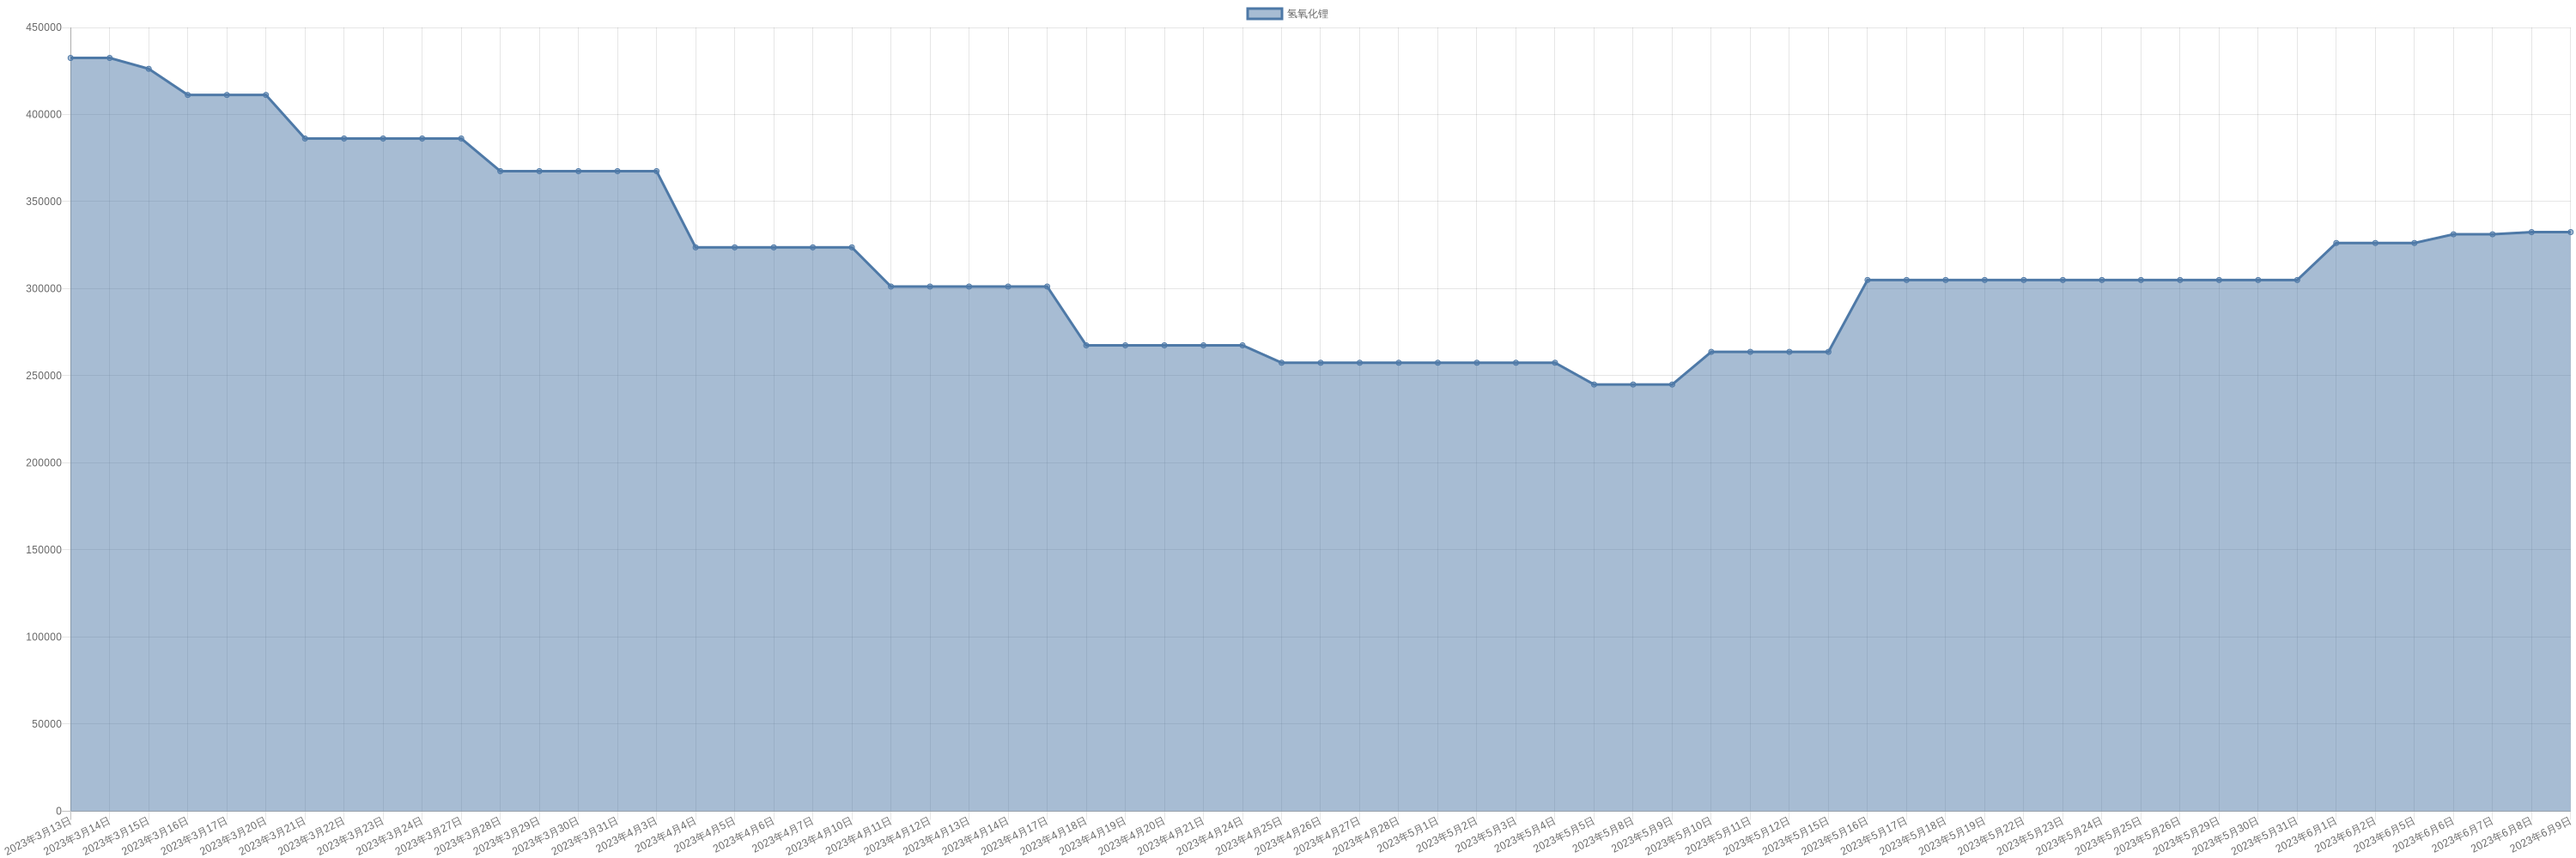
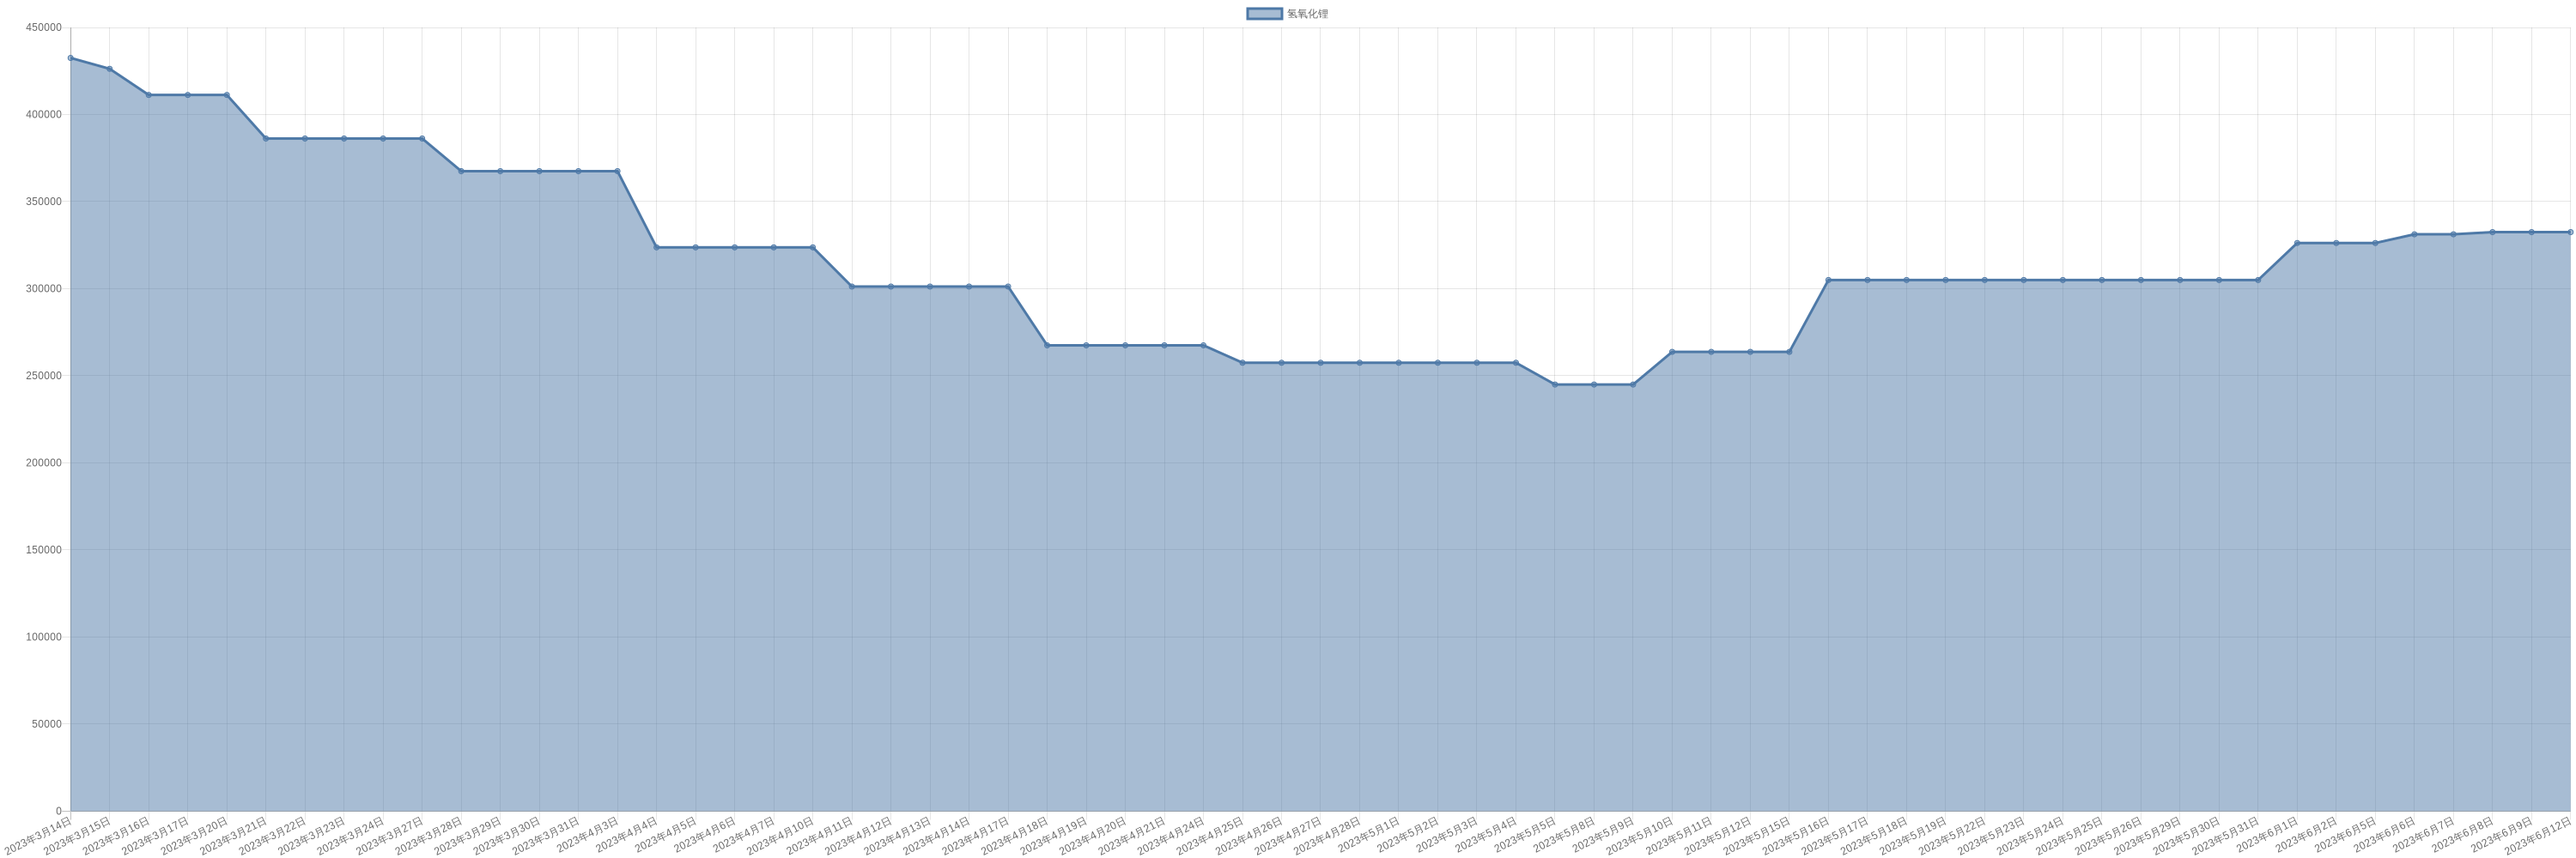
chore: sync commodity monitor

diff --git a/markdown/commodity/crudeOil.md b/markdown/commodity/crudeOil.md
@@ -2,6 +2,8 @@
 
 | 时间 | 价格 | 消息正文 |
 |:--:|:--:|:--:|
+|2023年6月12日WTI|70.17|6月12日WTI原油为70.17|
+|2023年6月12日Brent|74.79|6月12日Brent原油为74.79|
 |2023年6月9日Brent|75.96|6月9日Brent原油为75.96|
 |2023年6月9日WTI|71.29|6月9日WTI原油为71.29|
 |2023年6月8日WTI|72.53|6月8日WTI原油为72.53|

diff --git a/markdown/commodity/praseodymiumNeodymiumOxide.md b/markdown/commodity/praseodymiumNeodymiumOxide.md
@@ -8,6 +8,7 @@
 
 | 时间 | 价格 | 消息正文 |
 |:--:|:--:|:--:|
+|2023年6月12日|502500|6月12日镨钕氧化物为502500.00|
 |2023年6月9日|500000|6月9日镨钕氧化物为500000.00|
 |2023年6月8日|500000|6月8日镨钕氧化物为500000.00|
 |2023年6月7日|500000|6月7日镨钕氧化物为500000.00|

diff --git a/markdown/commodity/dyFeAlloy.md b/markdown/commodity/dyFeAlloy.md
@@ -8,6 +8,7 @@
 
 | 时间 | 价格 | 消息正文 |
 |:--:|:--:|:--:|
+|2023年6月12日|2090000|6月12日镝铁合金为2090000.00|
 |2023年6月9日|2070000|6月9日镝铁合金为2070000.00|
 |2023年6月8日|2060000|6月8日镝铁合金为2060000.00|
 |2023年6月7日|2060000|6月7日镝铁合金为2060000.00|

diff --git a/markdown/commodity/lithiumHydroxide.md b/markdown/commodity/lithiumHydroxide.md
@@ -8,6 +8,7 @@
 
 | 时间 | 价格 | 消息正文 |
 |:--:|:--:|:--:|
+|2023年6月12日|332500|6月12日氢氧化锂为332500.00|
 |2023年6月9日|332500|6月9日氢氧化锂为332500.00|
 |2023年6月8日|332500|6月8日氢氧化锂为332500.00|
 |2023年6月7日|331250|6月7日氢氧化锂为331250.00|

diff --git a/markdown/commodity/praseodymiumNeodymiumAlloy.md b/markdown/commodity/praseodymiumNeodymiumAlloy.md
@@ -8,6 +8,7 @@
 
 | 时间 | 价格 | 消息正文 |
 |:--:|:--:|:--:|
+|2023年6月12日|605000|6月12日镨钕合金为605000.00|
 |2023年6月9日|602500|6月9日镨钕合金为602500.00|
 |2023年6月8日|602500|6月8日镨钕合金为602500.00|
 |2023年6月7日|602500|6月7日镨钕合金为602500.00|

diff --git a/markdown/commodity/dysprosiumMetal.md b/markdown/commodity/dysprosiumMetal.md
@@ -8,6 +8,7 @@
 
 | 时间 | 价格 | 消息正文 |
 |:--:|:--:|:--:|
+|2023年6月12日|2710000|6月12日金属镝为2710000.00|
 |2023年6月9日|2680000|6月9日金属镝为2680000.00|
 |2023年6月8日|2680000|6月8日金属镝为2680000.00|
 |2023年6月7日|2680000|6月7日金属镝为2680000.00|

diff --git a/markdown/commodity/dysprosiumOxide.md b/markdown/commodity/dysprosiumOxide.md
@@ -8,6 +8,7 @@
 
 | 时间 | 价格 | 消息正文 |
 |:--:|:--:|:--:|
+|2023年6月12日|2130000|6月12日氧化镝为2130000.00|
 |2023年6月9日|2115000|6月9日氧化镝为2115000.00|
 |2023年6月8日|2105000|6月8日氧化镝为2105000.00|
 |2023年6月7日|2105000|6月7日氧化镝为2105000.00|

diff --git a/markdown/commodity/liquefiedNaturalGas.md b/markdown/commodity/liquefiedNaturalGas.md
@@ -8,6 +8,7 @@
 
 | 时间 | 价格 | 消息正文 |
 |:--:|:--:|:--:|
+|2023年6月12日|3750|6月12日液化天然气为3750.00|
 |2023年6月9日|3588|6月9日液化天然气为3588.00|
 |2023年6月8日|3560|6月8日液化天然气为3560.00|
 |2023年6月7日|3574|6月7日液化天然气为3574.00|

diff --git a/markdown/commodity/lithiumIronPhosphate.md b/markdown/commodity/lithiumIronPhosphate.md
@@ -8,6 +8,7 @@
 
 | 时间 | 价格 | 消息正文 |
 |:--:|:--:|:--:|
+|2023年6月12日|94000|6月12日磷酸铁锂为94000.00|
 |2023年6月9日|94000|6月9日磷酸铁锂为94000.00|
 |2023年6月8日|94000|6月8日磷酸铁锂为94000.00|
 |2023年6月7日|92000|6月7日磷酸铁锂为92000.00|

diff --git a/markdown/commodity/neodymium.md b/markdown/commodity/neodymium.md
@@ -8,6 +8,7 @@
 
 | 时间 | 价格 | 消息正文 |
 |:--:|:--:|:--:|
+|2023年6月12日|635000|6月12日金属钕为635000.00|
 |2023年6月9日|635000|6月9日金属钕为635000.00|
 |2023年6月8日|635000|6月8日金属钕为635000.00|
 |2023年6月7日|635000|6月7日金属钕为635000.00|

diff --git a/markdown/commodity/neodymiumOxide.md b/markdown/commodity/neodymiumOxide.md
@@ -8,6 +8,7 @@
 
 | 时间 | 价格 | 消息正文 |
 |:--:|:--:|:--:|
+|2023年6月12日|505000|6月12日氧化钕为505000.00|
 |2023年6月9日|505000|6月9日氧化钕为505000.00|
 |2023年6月8日|505000|6月8日氧化钕为505000.00|
 |2023年6月7日|505000|6月7日氧化钕为505000.00|

diff --git a/markdown/commodity/praseodymium.md b/markdown/commodity/praseodymium.md
@@ -8,6 +8,7 @@
 
 | 时间 | 价格 | 消息正文 |
 |:--:|:--:|:--:|
+|2023年6月12日|635000|6月12日金属镨为635000.00|
 |2023年6月9日|635000|6月9日金属镨为635000.00|
 |2023年6月8日|635000|6月8日金属镨为635000.00|
 |2023年6月7日|635000|6月7日金属镨为635000.00|
